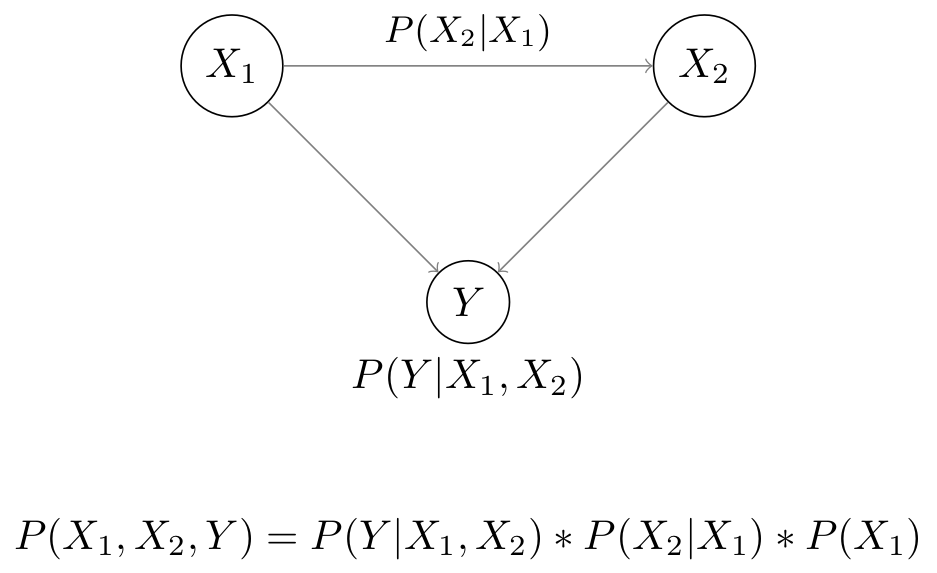
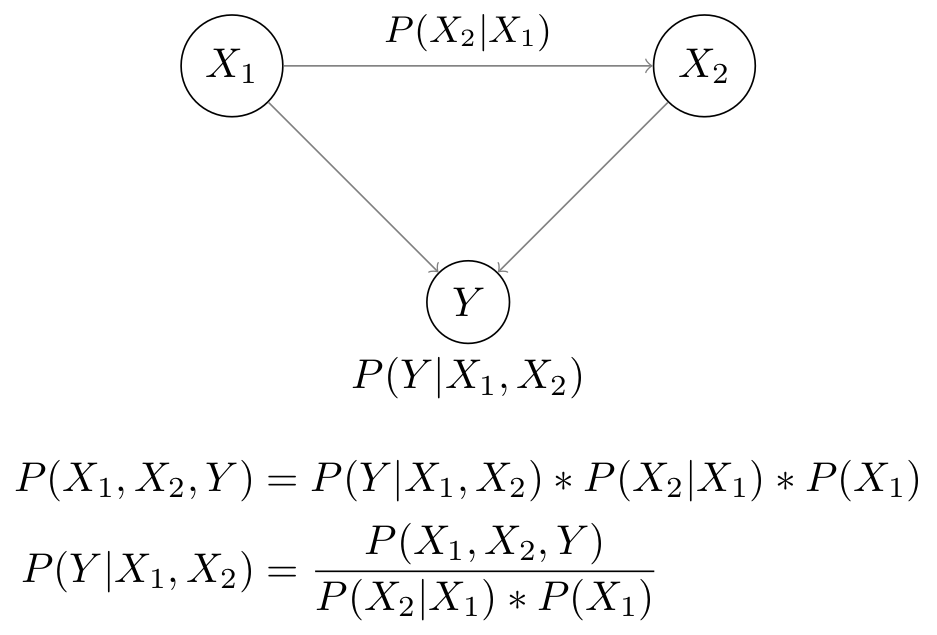
-

diff --git a/bayesian_network/README.md b/bayesian_network/README.md
@@ -3,11 +3,6 @@
 ## Bayesian Network
 Let's assume a classification problem with features `X1` and `X2` and label `Y`. Both features directly effect label `Y` and feature `X1` effects `X2`.
 
-The joint probability `P(X1,X2,Y)`can be computed using the chain rule:
-```
-P(X1,X2,Y) = P(Y|X1,X2) * P(X2|X1) * P(X1)
-```
-
 <p align="center">
 <img src="bayesian-network.png" width="50%">
 </p>
@@ -25,7 +20,7 @@ Compute the joint probability by using the chain rule
 P(X1,X2,Y) = P(Y|X1,X2) * P(X2|X1) * P(X1)
 ```
 
-Rewrite the joint probability using the Bayes theorem
+Rewrite the joint probability using the Bayes’ theorem
 ```Python
 # E1
 P(Y|X1,X2) = P(X1,X2,Y) / P(X2|X1) * P(X1)
